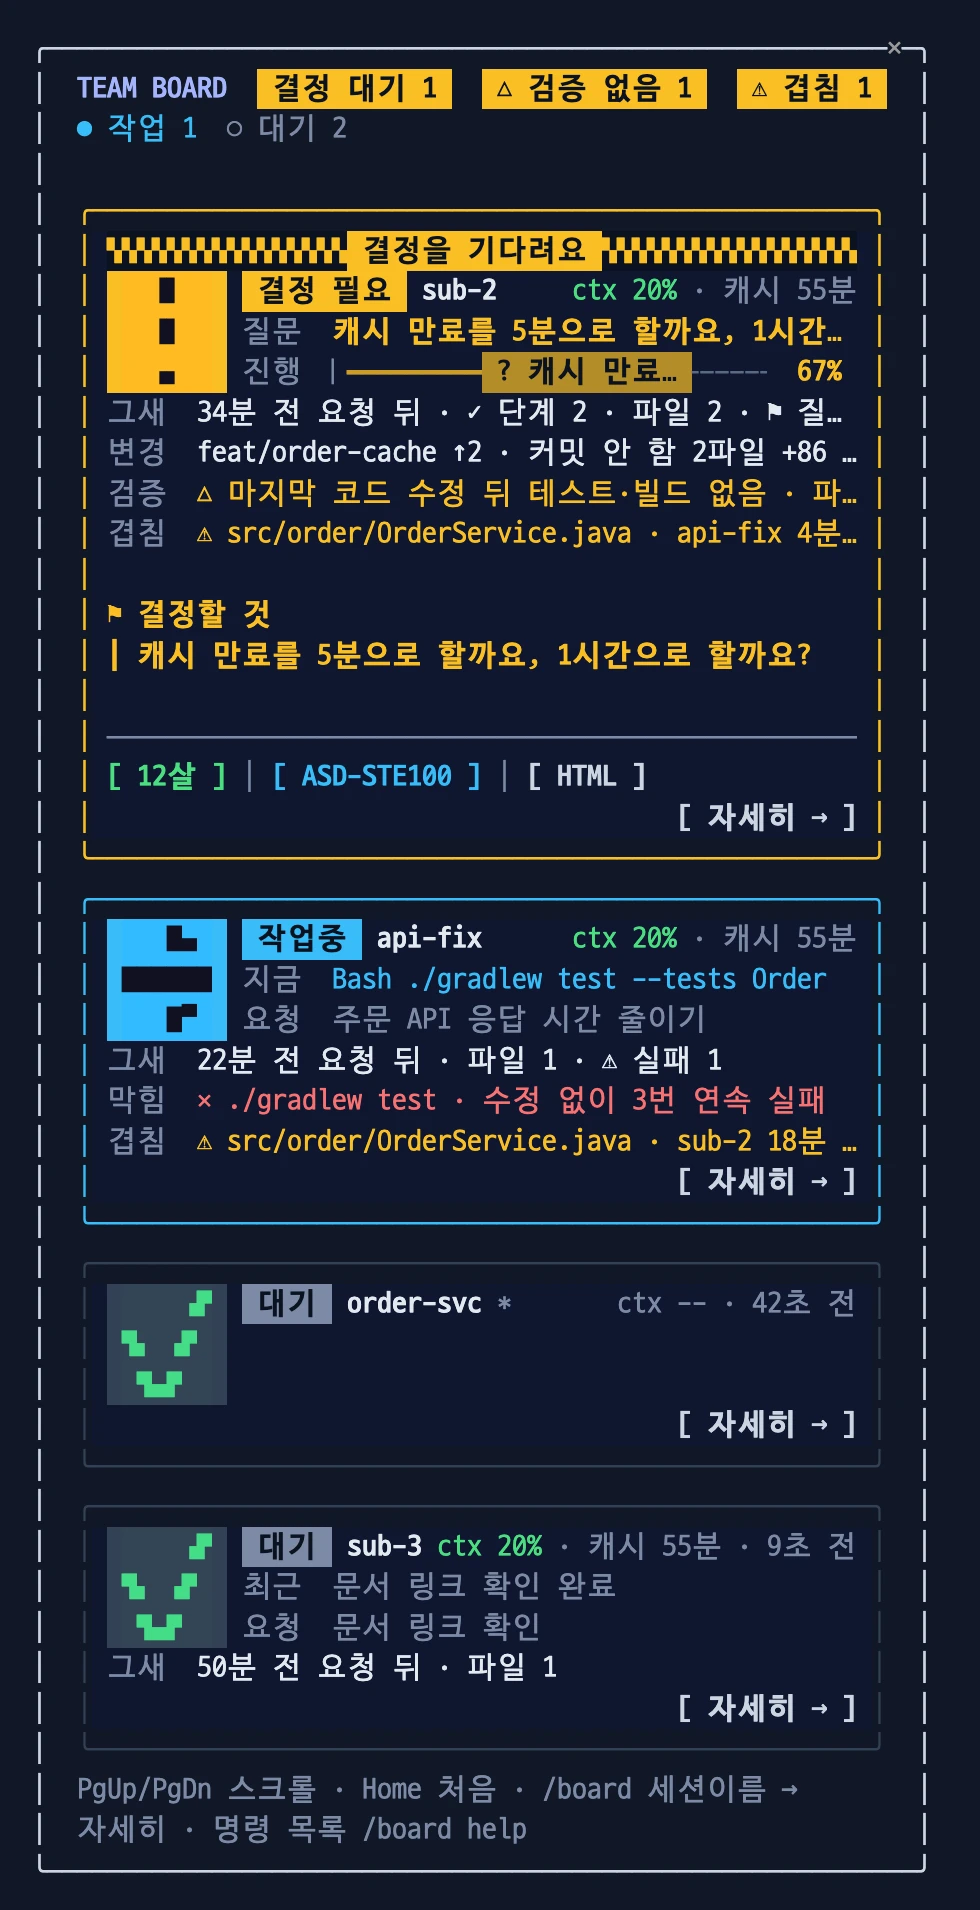
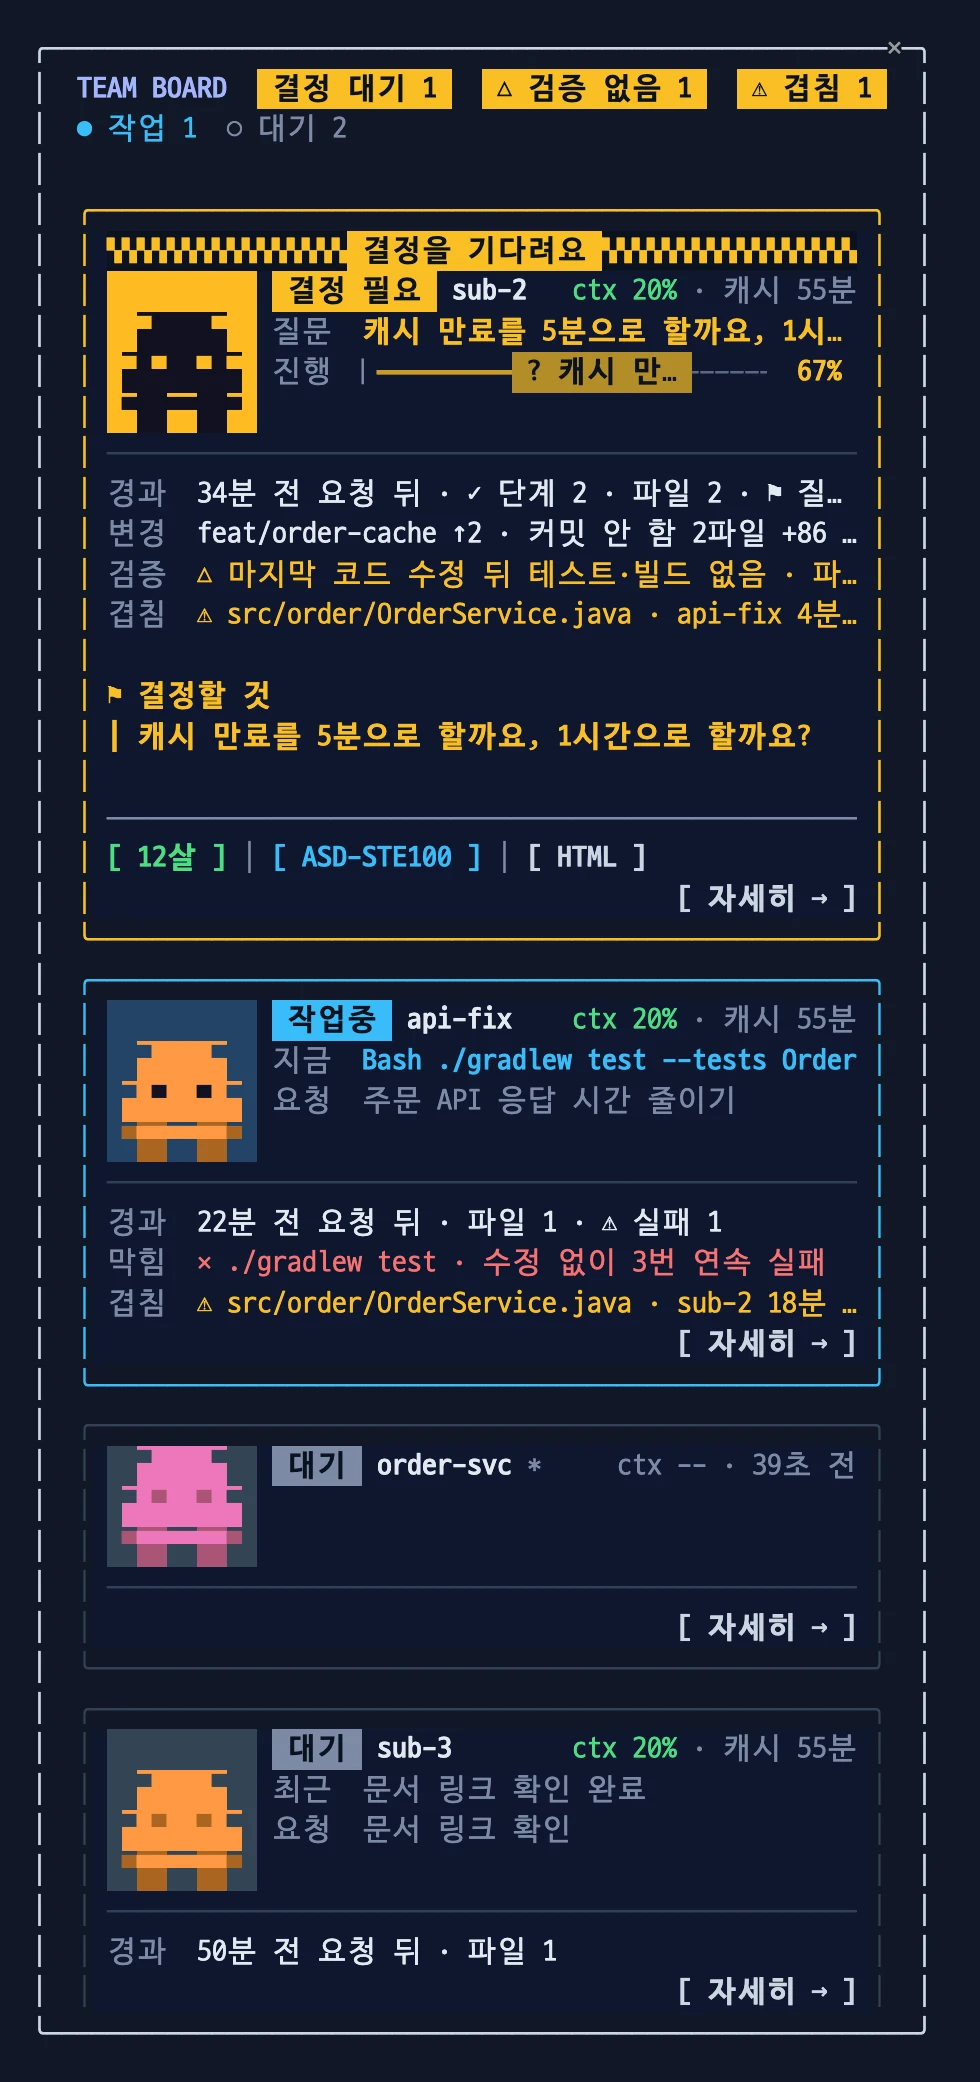
team-board 0.29.1: hide zero header chips, wrap band chips on narrow screens, rename the 그새 row to 경과
Claude-Session: https://claude.ai/code/session_0171W1s1WD2Q3wd3CeGP9kTN

Changed region(s): [[0.0612, 0.0, 0.949, 0.9885], [0.8571, 0.8958, 0.8878, 0.9267]]

diff --git a/team-board/tests/board.test.ts b/team-board/tests/board.test.ts
@@ -1397,7 +1397,7 @@ describe('복귀 요약·세션 나이 (T34 D2·D4)', () => {
     expect(sinceLastPrompt(beat({ timeline: [{ at: T0, kind: 'prompt', text: 'x' }, { at: T0 + 1, kind: 'done', text: '끝' }] }))).toBeNull()
   })
 
-  test('보드 카드에 그새 줄(요청 5분 뒤부터), 자세히에 시작 시각', async ($, on) => {
+  test('보드 카드에 경과 줄(요청 5분 뒤부터), 자세히에 시작 시각', async ($, on) => {
     const DIR = '/home/me/.claude/team-board/repo-order-svc'
     const files = new Map<string, string>()
     files.set(`${DIR}/peer.json`, JSON.stringify(peer))
@@ -1426,8 +1426,8 @@ describe('복귀 요약·세션 나이 (T34 D2·D4)', () => {
     await $.command.run({ command: 'board', args: '' } as any)
     const pane = await $.ui.mount({ plugin: 'team-board', surface: 'terminal', component: 'Pane', requestId: 'team-board', props: { bodyColumns: 100 } } as any)
     expect(await pane.find({ type: 'Text', text: '30분 전 요청 뒤 · ✓ 단계 2 · 파일 2 · ⚑ 질문 1 · ⚠ 실패 1' })).toBeDefined()
-    expect(await pane.find({ type: 'Text', text: /^그새$/ })).toBeDefined()
-    // 요청한 지 5분이 안 된 세션은 그새 줄이 없다
+    expect(await pane.find({ type: 'Text', text: /^경과$/ })).toBeDefined()
+    // 요청한 지 5분이 안 된 세션은 경과 줄이 없다
     expect((await pane.findAll({ type: 'Text', text: /요청 뒤 · / })).length).toBe(1)
     await pane.unmount()
 
@@ -1951,6 +1951,8 @@ describe('팀 상황판', () => {
     expect(await band.find({ type: 'Text', text: /OTHER-MOD-BAND/ })).toBeDefined()
     // 기본은 HUD 창: 머리줄 + 세션 칸
     expect(await band.find({ type: 'Text', text: /◆ TEAM 2/ })).toBeDefined()
+    // 머리줄 칩 줄은 좁으면 다음 줄로 넘긴다 (55칸에서 칩이 글자마다 쪼개졌다)
+    expect((await band.findAll({ type: 'Box' })).find(x => x.key === 'band-chips')?.props.flexWrap).toBe('wrap')
     expect(await band.find({ type: 'Text', text: /^ 결정 1 $/ })).toBeDefined()
     // 머리줄에 세션 단계 합계 막대는 없다 (T25: 서로 다른 작업의 단계를 더한 수라 뜻이 없었다)
     expect(await band.find({ type: 'Text', text: /^[▰▱]{8}$/ })).toBeUndefined()
@@ -2578,7 +2580,9 @@ describe('보조 에이전트 (hook)', () => {
     expect(await pane.find({ type: 'Text', text: /● 보조 1/ })).toBeDefined()
     // 메인 턴은 끝났어도 보조가 돌면 대기가 아니라 보조 기다림
     expect(await pane.find({ type: 'Text', text: /^◐ 보조 기다림 1$/ })).toBeDefined()
-    expect(await pane.find({ type: 'Text', text: /^○ 대기 0$/ })).toBeDefined()
+    // 0 인 칩은 그리지 않는다 (띠와 같이)
+    expect(await pane.find({ type: 'Text', text: /^○ 대기/ })).toBeUndefined()
+    expect(await pane.find({ type: 'Text', text: /^● 작업/ })).toBeUndefined()
     expect(await pane.find({ type: 'Text', text: /^ 보조 기다림 $/ })).toBeDefined()
     await pane.unmount()
     const band = await $.ui.mount({ plugin: 'team-board', surface: 'terminal', component: 'AbovePrompt', props: { hasSurvey: false, isWorking: false, maxRows: 10, bodyColumns: 160 } } as any)

diff --git a/team-board/hooks/register.tsx b/team-board/hooks/register.tsx
@@ -1230,7 +1230,8 @@ export const register: Register = (on, options) => {
     const hud = (
       <Box flexDirection="column" borderStyle="double" borderColor={asking ? pal.ask : fails ? pal.bad : pal.accent} paddingX={1} {...(pal.card ? { backgroundColor: pal.card } : {})}>
         <Box flexDirection="row" justifyContent="space-between">
-          <Box flexDirection="row" columnGap={2} flexShrink={1}>
+          {/* 좁은 폭(55칸)에서 칩이 줄어 글자마다 줄이 바뀌던 것을 막는다: 칩은 그대로 두고 남는 칩은 다음 줄로 */}
+          <Box key="band-chips" flexDirection="row" flexWrap="wrap" columnGap={2} flexShrink={1}>
             <Text color={pal.accent} bold>{`◆ TEAM ${list.length}`}</Text>
             {asking ? <Text backgroundColor={pal.ask} color={pal.onBadge} bold>{` 결정 ${asking} `}</Text> : null}
             {fails ? <Text backgroundColor={pal.bad} color={pal.onBadge} bold>{` ⚠ 실패 ${fails} `}</Text> : null}
@@ -1558,7 +1559,7 @@ export const register: Register = (on, options) => {
     const sinceRow = (b: Beat) => {
       const s = sinceLastPrompt(b)
       if (!s || now - s.at < 5 * 60_000) return null
-      return row('그새', <Text color={pal.text} wrap="truncate-end">{sinceText(s, now)}</Text>, `since-${b.id}`)
+      return row('경과', <Text color={pal.text} wrap="truncate-end">{sinceText(s, now)}</Text>, `since-${b.id}`)
     }
 
     // 설명 상자 안쪽 폭: 패널 폭에서 패널·카드·상자의 테두리와 여백, 들여쓰기를 뺀다.
@@ -1921,9 +1922,9 @@ export const register: Register = (on, options) => {
           {list.some(b => b.fail?.level === 'high' && !isStale(b, now)) ? <Text backgroundColor={pal.bad} color={pal.onBadge} bold>{` ⚠ 숨은 실패 ${list.filter(b => b.fail?.level === 'high' && !isStale(b, now)).length} `}</Text> : null}
           {list.some(b => b.unverified && !isStale(b, now)) ? <Text backgroundColor={pal.ask} color={pal.onBadge} bold>{` △ 검증 없음 ${list.filter(b => b.unverified && !isStale(b, now)).length} `}</Text> : null}
           {overlapped ? <Text backgroundColor={pal.ask} color={pal.onBadge} bold>{` ⚠ 겹침 ${overlapped} `}</Text> : null}
-          <Text color={pal.work}>{`● 작업 ${count('working')}`}</Text>
+          {count('working') ? <Text color={pal.work}>{`● 작업 ${count('working')}`}</Text> : null}
           {waiting ? <Text color={pal.work}>{`◐ 보조 기다림 ${waiting}`}</Text> : null}
-          <Text color={pal.dim}>{`○ 대기 ${count('idle')}`}</Text>
+          {count('idle') ? <Text color={pal.dim}>{`○ 대기 ${count('idle')}`}</Text> : null}
           {helpers ? <Text color={pal.work}>{`● 보조 ${helpers}`}</Text> : null}
         </Box>
 

diff --git a/CHANGELOG.md b/CHANGELOG.md
@@ -62,6 +62,11 @@
 
 ## team-board
 
+### 0.29.1 (2026-10-28)
+- `/board` 머리줄에서 `● 작업 0` · `○ 대기 0` 처럼 0 인 칩을 숨깁니다(띠와 같게).
+- 띠의 머리줄 칩이 좁은 폭(55칸)에서 글자마다 줄이 바뀌던 것을 고쳤습니다. 칩이 다 들어가지 않으면 남는 칩을 다음 줄로 넘깁니다.
+- 카드의 `그새` 줄 이름을 `경과` 로 바꿨습니다. 내용(마지막 요청 뒤 끝난 단계·고친 파일·질문·실패 수)은 같습니다.
+
 ### 0.29.0 (2026-10-27)
 - `/board` 카드 왼쪽 상태 아이콘을 픽셀 캐릭터로 바꿨습니다. 몸 색은 세션(이름으로 정해짐), 타일 바탕색은 상태입니다(노랑 결정 대기 · 빨강 숨은 실패 · 옅은 파랑 작업중 · 회색 대기 · 어두움 소식없음). 결정 대기·숨은 실패는 어두운 실루엣, 소식없음은 눈을 감고 z.
 - 캐릭터는 말랑이(기본)·삐삐·둥실 3종입니다. `/board 캐릭터 말랑이|삐삐|둥실|섞기` (영문 `/board look blob|bot|ghost|mix`) 로 바꾸고 다음 세션에도 유지됩니다. `섞기` 는 세션 이름으로 캐릭터와 색을 정합니다(18 조합).
